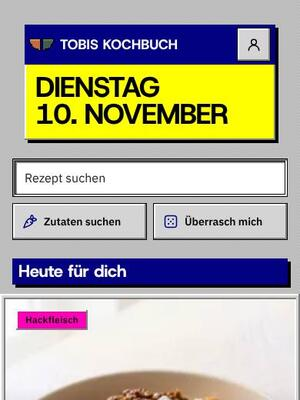
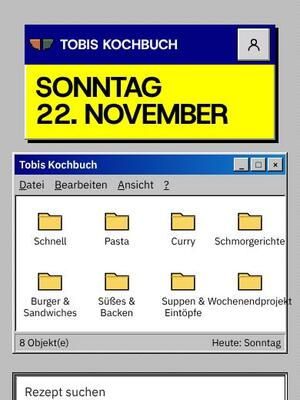
Retro, Terminal, Diner, Bauhaus: eigener Aufbau für Start, Rezeptliste und Rezeptseite
Claude-Session: https://claude.ai/code/session_013PTjiN2vxWXEUNgaQEpBeg

diff --git a/assets/skins/bauhaus.css b/assets/skins/bauhaus.css
@@ -42,3 +42,41 @@ html.skin-bauhaus:not(._a):not(._b):not(._c):not(._d) .wbLegend span::before{con
 html.skin-bauhaus:not(._a):not(._b):not(._c):not(._d) .wbLegend [data-kind="fleisch"]::before{background:var(--kFleisch)}
 html.skin-bauhaus:not(._a):not(._b):not(._c):not(._d) .wbLegend [data-kind="veg"]::before{background:var(--kVeg);border-radius:50%}
 html.skin-bauhaus:not(._a):not(._b):not(._c):not(._d) .wbLegend [data-kind="fisch"]::before{background:var(--kFisch);clip-path:polygon(50% 0,100% 100%,0 100%)}
+
+/* Dez. 2026, mehr eigener Charakter (bauhaus.js): Komposition mit riesigem Datum, Farbflächen-Raster mit Nummern und geometrischen Fotos */
+.bhComp{position:relative;height:min(92vw, 420px);margin:10px 0 18px;overflow:hidden;background:#F3EEE2}
+.bhComp i{position:absolute;display:block}
+.bhC{left:-8%;top:8%;width:62%;aspect-ratio:1;border-radius:50% !important;background:#C8202A}
+.bhS{right:6%;top:-6%;width:38%;aspect-ratio:1;background:#F2C230}
+.bhT{right:-4%;bottom:-2%;width:50%;aspect-ratio:1;background:#1E4FB8;clip-path:polygon(50% 0, 100% 100%, 0 100%)}
+.bhDay{position:absolute;left:4%;bottom:-4%;font:800 min(56vw, 16rem)/.8 "Skin Bauhaus", "Futura", sans-serif;color:#111;letter-spacing:-.06em}
+.bhMon{position:absolute;right:4%;top:46%;font:600 1.125rem/1.15 "Skin Bauhaus", "Futura", sans-serif;text-transform:uppercase;letter-spacing:.08em;color:#111;text-align:right}
+.bhLine{position:absolute;left:0;right:0;top:44%;height:6px;background:#111}
+html.skin-bauhaus:not(#_x#_y) body.layout-home .homeGreetingTitle{display:none}
+html.skin-bauhaus.bhList:not(#_x#_y) #recipeGrid{display:grid !important;grid-template-columns:repeat(2,minmax(0,1fr)) !important;gap:0 !important;counter-reset:bh;border:3px solid #111;background:#111}
+@media (min-width:700px){html.skin-bauhaus.bhList:not(#_x#_y) #recipeGrid{grid-template-columns:repeat(3,minmax(0,1fr)) !important}}
+@media (min-width:1100px){html.skin-bauhaus.bhList:not(#_x#_y) #recipeGrid{grid-template-columns:repeat(4,minmax(0,1fr)) !important}}
+html.skin-bauhaus.bhList:not(#_x#_y) #recipeGrid .linkCard{margin:0 !important;counter-increment:bh;border:1.5px solid #111}
+html.skin-bauhaus.bhList:not(#_x#_y) #recipeGrid .recipeCard{position:relative;height:100%;padding:14px 12px 12px !important;background:#F3EEE2 !important;box-shadow:none !important;border:0 !important}
+html.skin-bauhaus.bhList:not(#_x#_y) #recipeGrid .recipeCard[data-kind="fleisch"]{background:#C8202A !important}
+html.skin-bauhaus.bhList:not(#_x#_y) #recipeGrid .recipeCard[data-kind="veg"]{background:#F2C230 !important}
+html.skin-bauhaus.bhList:not(#_x#_y) #recipeGrid .recipeCard[data-kind="fisch"]{background:#1E4FB8 !important}
+html.skin-bauhaus.bhList:not(#_x#_y) #recipeGrid .recipeCard::before{content:counter(bh, decimal-leading-zero);position:absolute;right:10px;top:4px;font:800 2.4rem/1 "Skin Bauhaus", "Futura", sans-serif;color:#111;letter-spacing:-.04em;z-index:1}
+html.skin-bauhaus.bhList:not(#_x#_y) #recipeGrid .recipeCard:is([data-kind="fleisch"],[data-kind="fisch"])::before,html.skin-bauhaus.bhList:not(#_x#_y) #recipeGrid .recipeCard:is([data-kind="fleisch"],[data-kind="fisch"]) :is(.recipeTitle,.recipeMeta){color:#FFF !important}
+html.skin-bauhaus.bhList:not(#_x#_y) #recipeGrid .rcImg{width:78% !important;aspect-ratio:1 !important;margin:18px 0 12px !important;border-radius:0 !important;background:#111}
+html.skin-bauhaus.bhList:not(#_x#_y) #recipeGrid .rcImg img{width:100%;height:100%;object-fit:cover}
+html.skin-bauhaus.bhList:not(#_x#_y) #recipeGrid .recipeCard[data-kind="fleisch"] .rcImg{border-radius:50% !important;overflow:hidden}
+html.skin-bauhaus.bhList:not(#_x#_y) #recipeGrid .recipeCard[data-kind="fisch"] .rcImg{clip-path:polygon(50% 0, 100% 100%, 0 100%)}
+html.skin-bauhaus.bhList:not(#_x#_y) #recipeGrid .rcBody{padding:0 !important}
+html.skin-bauhaus.bhList:not(#_x#_y) #recipeGrid .recipeTitle{font:700 1rem/1.15 "Skin Bauhaus", "Futura", sans-serif !important;text-transform:uppercase;letter-spacing:.02em;color:#111 !important}
+html.skin-bauhaus.bhList:not(#_x#_y) #recipeGrid .recipeMeta{color:#111 !important;font-size:.8125rem !important}
+html.skin-bauhaus.bhList:not(#_x#_y) #recipeGrid .recipeMeta>:nth-child(n+2){display:none !important}
+html.skin-bauhaus:not(#_x#_y) .recipePageHero{position:relative;height:auto !important;max-height:none !important;aspect-ratio:auto !important;overflow:hidden !important;margin-top:56px !important;padding:24px 24px 0 56px;background:#F2C230 !important;display:flex !important;flex-direction:column}
+html.skin-bauhaus:not(#_x#_y) .recipePageHero::before,html.skin-bauhaus:not(#_x#_y) .recipePageHero::after{display:none !important}
+html.skin-bauhaus:not(#_x#_y) .recipePageHero img.recipeHeroImg{position:static !important;width:100% !important;height:auto !important;aspect-ratio:1;object-fit:cover;border-radius:50% !important;transform:none !important;box-shadow:12px 12px 0 #C8202A}
+html.skin-bauhaus:not(#_x#_y) .recipeHeroText{position:static !important;background:#111 !important;margin:24px -24px 0 -56px;padding:18px 20px !important}
+html.skin-bauhaus:not(#_x#_y) .recipeHeroText :is(.recipeName,.recipeSubtitle){color:#FFF !important;text-shadow:none !important}
+html.skin-bauhaus:not(#_x#_y) .recipeHeroText .recipeName{text-transform:uppercase;font-weight:800 !important;letter-spacing:-.02em}
+html.skin-bauhaus:not(#_x#_y) .recipeHeroText .recipeSubtitle{display:block !important;-webkit-line-clamp:unset !important}
+.bhVert{position:absolute;left:14px;top:24px;writing-mode:vertical-rl;transform:rotate(180deg);font:800 1rem/1 "Skin Bauhaus", "Futura", sans-serif;letter-spacing:.2em;text-transform:uppercase;color:#111}
+@media (min-width:900px){html.skin-bauhaus:not(#_x#_y) .recipePageHero img.recipeHeroImg{width:min(100%, 520px) !important;align-self:center}}

diff --git a/assets/skins/retro.css b/assets/skins/retro.css
@@ -1,0 +1,39 @@
+/* Skin „retro“ – Grundaussehen steht in styles.css (html.retro …). Diese Datei (Dez. 2026, mehr eigener Charakter) macht alles zu Fenstern:
+   Start mit Ordner-Fenster, Rezeptliste als Explorer in der Detailansicht, Rezeptseite als Bildbetrachter (retro.js). Neue Regeln ans Ende. */
+.rtWin,.rtExplorer,.rtHeroBar{--rtFace:#C3C3C3;--rtHi:#FFFFFF;--rtLo:#808080;--rtDk:#000000}
+.rtWin{margin:14px 0 4px;background:#C3C3C3;box-shadow:inset -1px -1px #000, inset 1px 1px #FFF, inset -2px -2px #808080, inset 2px 2px #DFDFDF;padding:3px}
+.rtBar{display:flex;align-items:center;justify-content:space-between;gap:8px;min-height:26px;padding:2px 3px 2px 6px;background:linear-gradient(90deg,#000080,#1084D0);color:#FFF;font:700 .875rem/1.2 "Retro Interface", sans-serif}
+.rtTitle{overflow:hidden;text-overflow:ellipsis;white-space:nowrap}
+.rtBtns{display:flex;gap:2px;flex:none}
+.rtBtns i{display:grid;place-items:center;width:20px;height:18px;background:#C3C3C3;color:#000;font:700 .75rem/1 "Retro Interface", sans-serif;font-style:normal;box-shadow:inset -1px -1px #000, inset 1px 1px #FFF, inset -2px -2px #808080}
+.rtMenu{padding:4px 6px;font:400 .875rem "Retro Interface", sans-serif;color:#000;word-spacing:10px}
+.rtIcons{display:grid;grid-template-columns:repeat(4,minmax(0,1fr));gap:6px;padding:12px 6px;background:#FFFFFF;box-shadow:inset 1px 1px #808080, inset -1px -1px #FFF, inset 2px 2px #000}
+@media (min-width:700px){.rtIcons{grid-template-columns:repeat(8,minmax(0,1fr))}}
+.rtIcon{display:flex;flex-direction:column;align-items:center;gap:4px;min-height:72px;padding:4px 2px;color:#000;text-decoration:none;text-align:center;font:400 .8125rem/1.15 "Retro Interface", sans-serif}
+.rtIcon svg{width:34px;height:34px}
+.rtIcon:focus-visible span,.rtIcon:active span{background:#000080;color:#FFF;outline:1px dotted #FFF}
+.rtStatus{display:flex;justify-content:space-between;gap:10px;margin-top:3px;padding:3px 6px;font:400 .8125rem "Retro Interface", sans-serif;color:#000;box-shadow:inset 1px 1px #808080, inset -1px -1px #FFF}
+/* Explorer: Rezeptliste in Detailansicht */
+.rtExplorer{margin:8px 0 0;background:#C3C3C3;padding:3px 3px 0;box-shadow:inset 1px 1px #FFF, inset -1px 0 #000, inset 2px 2px #DFDFDF}
+.rtCols{display:grid;grid-template-columns:1fr 6.5rem;margin:0 0 0;background:#C3C3C3}
+.rtCols span{padding:3px 8px;font:400 .8125rem "Retro Interface", sans-serif;color:#000;box-shadow:inset -1px -1px #808080, inset 1px 1px #FFF}
+html.retro.rtList:not(#_x#_y) #recipeGrid{display:block !important;background:#FFFFFF;margin:0 !important;padding:2px 0 !important;box-shadow:inset 1px 0 #000, inset -1px 0 #000;max-width:none}
+html.retro.rtList:not(#_x#_y) #recipeGrid .linkCard{display:block;margin:0 !important}
+html.retro.rtList:not(#_x#_y) #recipeGrid .recipeCard{display:grid !important;grid-template-columns:36px 1fr 6.5rem;align-items:center;gap:8px;min-height:44px;padding:4px 8px !important;background:transparent !important;box-shadow:none !important;border:0 !important}
+html.retro.rtList:not(#_x#_y) #recipeGrid .linkCard:nth-child(even) .recipeCard{background:#F1F1F1 !important}
+html.retro.rtList:not(#_x#_y) #recipeGrid .rcImg{width:36px !important;height:36px !important;aspect-ratio:1 !important;margin:0 !important;box-shadow:inset 0 0 0 1px #000}
+html.retro.rtList:not(#_x#_y) #recipeGrid .rcImg img{width:100%;height:100%;object-fit:cover}
+html.retro.rtList:not(#_x#_y) #recipeGrid .rcBody{display:contents !important}
+html.retro.rtList:not(#_x#_y) #recipeGrid .recipeTitle{font:400 .9375rem/1.2 "Retro Interface", sans-serif !important;text-transform:none !important;color:#000 !important;-webkit-line-clamp:2;margin:0}
+html.retro.rtList:not(#_x#_y) #recipeGrid .recipeMeta{font:400 .8125rem "Retro Interface", sans-serif !important;color:#000 !important;justify-content:flex-start;margin:0}
+html.retro.rtList:not(#_x#_y) #recipeGrid .recipeMeta>:nth-child(n+2),html.retro.rtList:not(#_x#_y) #recipeGrid .recipeMeta svg,html.retro.rtList:not(#_x#_y) #recipeGrid .freezerFlag,html.retro.rtList:not(#_x#_y) #recipeGrid .rcFavBadge{display:none !important}
+@media (hover:hover) and (pointer:fine){html.retro.rtList:not(#_x#_y) #recipeGrid .linkCard:hover .recipeTitle{background:#000080;color:#FFF !important}}
+.rtGridStatus{background:#C3C3C3;margin:0 0 18px;box-shadow:inset 1px 1px #808080, inset -1px -1px #FFF, 0 0 0 3px #C3C3C3}
+/* Rezeptseite: Bildbetrachter */
+html.retro:not(#_x#_y) .recipePageHero{padding:3px !important;background:#C3C3C3 !important;box-shadow:inset -1px -1px #000, inset 1px 1px #FFF, inset -2px -2px #808080, inset 2px 2px #DFDFDF !important;height:auto !important;max-height:none !important;aspect-ratio:auto !important;overflow:visible !important;margin-top:56px !important;display:flex !important;flex-direction:column}
+html.retro:not(#_x#_y) .recipePageHero::before,html.retro:not(#_x#_y) .recipePageHero::after{display:none !important}
+html.retro:not(#_x#_y) .recipePageHero img.recipeHeroImg{position:static !important;width:100% !important;height:auto !important;aspect-ratio:4/3;object-fit:cover;transform:none !important;box-shadow:inset 1px 1px #808080;border:2px solid #FFF;border-top-color:#808080;border-left-color:#808080}
+html.retro:not(#_x#_y) .recipeHeroText{position:static !important;background:#FFFFFF !important;padding:10px 10px 12px !important;margin-top:3px;box-shadow:inset 1px 1px #808080, inset -1px -1px #FFF}
+html.retro:not(#_x#_y) .recipeHeroText :is(.recipeName,.recipeSubtitle){color:#000 !important;text-shadow:none !important}
+html.retro:not(#_x#_y) .recipeHeroText .recipeSubtitle{display:block !important;-webkit-line-clamp:unset !important}
+.rtHeroStatus{background:#C3C3C3;margin:0 0 8px;box-shadow:inset 1px 1px #808080, inset -1px -1px #FFF, 0 0 0 3px #C3C3C3}

diff --git a/assets/skins/diner.css b/assets/skins/diner.css
@@ -40,3 +40,37 @@ html.skin-diner:not(._a):not(._b):not(._c):not(._d).listCards .grid .rcBody .rec
 html.skin-diner:not(._a):not(._b):not(._c):not(._d) .grid .rcBody::after{content:"";order:1;flex:1 1 16px;min-width:16px;margin:0 8px;height:0;border-bottom:3px dotted #B3122E;opacity:.55;transform:translateY(-.3em)}
 html.skin-diner:not(._a):not(._b):not(._c):not(._d) .grid .rcBody .recipeMeta{order:2;flex:none;margin:0;font-weight:700;color:#A3102A}
 html.skin-diner:not(._a):not(._b):not(._c):not(._d) .grid .rcBody .recipeMeta .metaItem + .metaItem{display:none}
+
+/* Dez. 2026, mehr eigener Charakter (diner.js): Leuchtschild + Tagesgericht-Tafel, Speisekarte, Bestellzettel */
+.dnSign{position:relative;margin:16px 0 6px;display:flex;flex-direction:column;align-items:center;gap:14px}
+.dnNeon{display:flex;flex-direction:column;align-items:center;padding:16px 26px 14px;border:3px solid #FF6B81;border-radius:22px;background:#1B0B10;box-shadow:0 0 0 4px #1B0B10, 0 0 18px rgba(255,45,85,.6), inset 0 0 18px rgba(255,45,85,.35)}
+.dnTobis{font:400 1.25rem/1 "Skin Diner", cursive;color:#9FF3FF;text-shadow:0 0 6px #4FE3FF, 0 0 16px #00C8FF}
+.dnDiner{font:400 clamp(3rem, 15vw, 4.6rem)/1 "Skin Diner", cursive;color:#FFFFFF;text-shadow:0 0 2px #fff, 0 0 10px #FF6B81, 0 0 24px #FF2D55}
+.dnOpen{margin-top:6px;padding:2px 12px;border:2px solid #FFD25E;border-radius:999px;font:700 .8125rem/1.4 -apple-system, sans-serif;letter-spacing:.14em;text-transform:uppercase;color:#FFE9A8;text-shadow:0 0 8px #FFB800;animation:dnFlick 4s infinite}
+.dnOpen.off{border-color:#555;color:#888;text-shadow:none;animation:none}
+@keyframes dnFlick{0%,92%,100%{opacity:1}93%{opacity:.3}95%{opacity:1}96%{opacity:.4}}
+.dnBoard{display:flex;flex-direction:column;align-items:center;gap:2px;width:min(100%,420px);padding:16px 18px;border:10px solid #7A4B2A;border-radius:6px;background:#203A2E;color:#F6F1E6;text-decoration:none;text-align:center;box-shadow:0 10px 24px rgba(0,0,0,.25)}
+.dnBoard small{font:400 1.125rem/1 "Skin Diner", cursive;color:#FFE9A8}
+.dnBoard b{font:400 1.75rem/1.15 "Skin Diner", cursive}
+.dnBoard i{font:400 .875rem/1.3 -apple-system, sans-serif;font-style:normal;color:#D7E6DD}
+.dnMenuHead{display:flex;flex-direction:column;align-items:center;margin:16px 0 0;padding:16px 12px 10px;background:#FFFDF6;border:3px solid #B3122E;border-bottom:0;border-radius:14px 14px 0 0}
+.dnMenuHead b{font:400 2.2rem/1 "Skin Diner", cursive;color:#B3122E}
+.dnMenuHead span{font:600 .75rem/1.4 -apple-system, sans-serif;letter-spacing:.1em;text-transform:uppercase;color:#4A4A4A}
+html.skin-diner.dnList:not(#_x#_y) #recipeGrid{display:block !important;background:#FFFDF6;border:3px solid #B3122E;border-top:0;border-radius:0 0 14px 14px;padding:4px 14px 14px !important;margin:0 0 20px !important}
+html.skin-diner.dnList:not(#_x#_y) #recipeGrid .linkCard{display:block;margin:0 !important}
+html.skin-diner.dnList:not(#_x#_y) #recipeGrid .recipeCard{display:grid !important;grid-template-columns:58px 1fr;align-items:center;gap:12px;padding:10px 0 !important;background:transparent !important;box-shadow:none !important;border:0 !important;border-bottom:1px dashed #B7DDCF !important}
+html.skin-diner.dnList:not(#_x#_y) #recipeGrid .rcImg{width:58px !important;height:58px !important;aspect-ratio:1 !important;border-radius:50% !important;margin:0 !important;box-shadow:0 0 0 3px #FFF, 0 0 0 5px #B3122E}
+html.skin-diner.dnList:not(#_x#_y) #recipeGrid .rcImg img{width:100%;height:100%;object-fit:cover;border-radius:50%}
+html.skin-diner.dnList:not(#_x#_y) #recipeGrid .rcBody{display:grid !important;grid-template-columns:1fr auto;align-items:baseline;gap:0 6px;padding:0 !important}
+html.skin-diner.dnList:not(#_x#_y) #recipeGrid .recipeTitle{display:flex !important;align-items:baseline;gap:6px;font:700 1rem/1.25 -apple-system, sans-serif !important;color:#1A1A1A !important;margin:0;-webkit-line-clamp:unset;overflow:visible}
+html.skin-diner.dnList:not(#_x#_y) #recipeGrid .recipeTitle::after{content:"";flex:1;min-width:16px;border-bottom:2px dotted #B3122E;transform:translateY(-4px)}
+html.skin-diner.dnList:not(#_x#_y) #recipeGrid .recipeMeta{margin:0;font:700 .9375rem -apple-system, sans-serif !important;color:#B3122E !important;white-space:nowrap}
+html.skin-diner.dnList:not(#_x#_y) #recipeGrid .recipeMeta>:nth-child(n+2),html.skin-diner.dnList:not(#_x#_y) #recipeGrid .recipeMeta svg,html.skin-diner.dnList:not(#_x#_y) #recipeGrid .freezerFlag{display:none !important}
+.dnSlip{position:relative;margin:4px auto 20px;max-width:420px;padding:14px 16px 18px;background:#FFFDF2;color:#1A1A1A;font:400 .9375rem/1.45 "Retro Mono", ui-monospace, monospace;box-shadow:0 8px 20px rgba(0,0,0,.12);transform:rotate(-1.2deg);
+  -webkit-mask:linear-gradient(#000,#000) 0 0/100% calc(100% - 8px) no-repeat, radial-gradient(circle at 6px 0, transparent 5px, #000 5.5px) 0 100%/12px 8px repeat-x;mask:linear-gradient(#000,#000) 0 0/100% calc(100% - 8px) no-repeat, radial-gradient(circle at 6px 0, transparent 5px, #000 5.5px) 0 100%/12px 8px repeat-x}
+.dnSlipHead{display:flex;justify-content:space-between;padding-bottom:6px;border-bottom:1px dashed #999;font-size:.8125rem;color:#4A4A4A}
+.dnSlipItem{margin:8px 0 4px;font-weight:600;color:#B3122E}
+.dnSlipRow{margin:0;color:#333}
+.dnSlipFoot{margin:10px 0 0;padding-top:6px;border-top:1px dashed #999;text-align:center;font:400 1.125rem "Skin Diner", cursive;color:#B3122E}
+html.skin-diner:not(#_x#_y) .recipePageHero{border-radius:26px !important;box-shadow:0 0 0 6px #FFF, 0 0 0 10px #B3122E !important;margin-top:64px !important}
+@media (prefers-reduced-motion: reduce){.dnOpen{animation:none}}

diff --git a/assets/skins/terminal.css b/assets/skins/terminal.css
@@ -55,3 +55,38 @@ html.skin-terminal:not(._a):not(._b):not(._c):not(._d) .sbBar{height:12px;border
 html.skin-terminal:not(._a):not(._b):not(._c):not(._d) .sbBar i{display:block;height:100%;
   clip-path:inset(0 calc((1 - var(--f)) * 100%) 0 0);background:repeating-linear-gradient(90deg,var(--leaf) 0 6px,transparent 6px 8px);filter:drop-shadow(0 0 4px rgba(92,255,138,.55))}
 html.skin-terminal:not(._a):not(._b):not(._c):not(._d) .sbRow b{font-weight:400;color:var(--text);min-width:4.5em;text-align:right}
+
+/* Dez. 2026, mehr eigener Charakter (terminal.js): Start = Terminal-Sitzung, Rezeptliste = ls -l, Rezeptseite = cat */
+.tmShell{margin:18px 0 6px;padding:14px 14px 16px;border:1px solid rgba(92,255,138,.4);background:#020502;font:400 .9375rem/1.55 "Retro Mono", ui-monospace, Menlo, monospace;color:#7DFFA0;box-shadow:0 0 24px rgba(51,255,102,.12) inset}
+.tmShell p{margin:0;overflow-wrap:anywhere}
+.tmShell b{color:#33FF66;font-weight:600}.tmShell i{color:#9CC7FF;font-style:normal}
+.tmShell kbd{font:inherit;color:#E6FFE9}
+.tmOut{margin:0 0 8px !important;padding-left:0;color:#4CC872}
+.tmOut a{display:inline-flex;align-items:center;min-height:32px;color:#33FF66;text-decoration:underline;text-underline-offset:3px;margin-right:6px}
+.tmOut span{color:#4CC872}
+.tmCaret{display:inline-block;width:.6em;height:1.1em;vertical-align:-.15em;background:#33FF66;animation:tmBlink 1s steps(1) infinite}
+@keyframes tmBlink{50%{opacity:0}}
+.tmLs,.tmCat{margin:14px 0 10px;font:400 .9375rem/1.55 "Retro Mono", ui-monospace, Menlo, monospace;color:#4CC872}
+.tmLs b,.tmCat b{color:#33FF66}.tmLs i,.tmCat i{color:#9CC7FF;font-style:normal}.tmLs kbd,.tmCat kbd{font:inherit;color:#E6FFE9}
+html.skin-terminal.tmList:not(#_x#_y) #recipeGrid{display:block !important;counter-reset:tm;border-top:1px dashed rgba(92,255,138,.4)}
+html.skin-terminal.tmList:not(#_x#_y) #recipeGrid .linkCard{display:block;margin:0 !important;counter-increment:tm}
+html.skin-terminal.tmList:not(#_x#_y) #recipeGrid .recipeCard{display:grid !important;grid-template-columns:5.6rem 1fr 56px;align-items:center;gap:10px;min-height:56px;padding:6px 0 !important;background:transparent !important;box-shadow:none !important;border:0 !important;border-bottom:1px dashed rgba(92,255,138,.25) !important}
+html.skin-terminal.tmList:not(#_x#_y) #recipeGrid .rcImg{grid-column:3;grid-row:1;width:56px !important;height:42px !important;aspect-ratio:auto !important;margin:0 !important;border:1px solid rgba(92,255,138,.5)}
+html.skin-terminal.tmList:not(#_x#_y) #recipeGrid .rcImg img{width:100%;height:100%;object-fit:cover}
+html.skin-terminal.tmList:not(#_x#_y) #recipeGrid .rcBody{display:contents !important}
+html.skin-terminal.tmList:not(#_x#_y) #recipeGrid .recipeMeta{grid-column:1;grid-row:1;font:400 .8125rem "Retro Mono", ui-monospace, Menlo, monospace !important;color:#4CC872 !important;margin:0;flex-direction:column;align-items:flex-start;gap:0}
+html.skin-terminal.tmList:not(#_x#_y) #recipeGrid .recipeMeta::before{content:"-rw-r--r--";color:#3FAE62;font-size:.75rem}
+html.skin-terminal.tmList:not(#_x#_y) #recipeGrid .recipeMeta>:nth-child(n+2),html.skin-terminal.tmList:not(#_x#_y) #recipeGrid .recipeMeta svg,html.skin-terminal.tmList:not(#_x#_y) #recipeGrid .freezerFlag,html.skin-terminal.tmList:not(#_x#_y) #recipeGrid .rcFavBadge{display:none !important}
+html.skin-terminal.tmList:not(#_x#_y) #recipeGrid .recipeTitle{grid-column:2;grid-row:1;font:400 1.0625rem/1.25 "Retro Mono", ui-monospace, Menlo, monospace !important;text-transform:lowercase !important;color:#E6FFE9 !important;margin:0}
+html.skin-terminal.tmList:not(#_x#_y) #recipeGrid .recipeTitle::after{content:".rez";color:#4CC872}
+@media (hover:hover) and (pointer:fine){html.skin-terminal.tmList:not(#_x#_y) #recipeGrid .linkCard:hover .recipeCard{background:rgba(51,255,102,.12) !important}}
+html.skin-terminal:not(#_x#_y) .recipePageHero{margin-top:8px !important;border:1px solid rgba(92,255,138,.5);padding:6px;height:auto !important;max-height:none !important;aspect-ratio:auto !important;display:flex !important;flex-direction:column;overflow:visible !important;background:transparent !important}
+html.skin-terminal:not(#_x#_y) .recipePageHero::before,html.skin-terminal:not(#_x#_y) .recipePageHero::after{display:none !important}
+html.skin-terminal:not(#_x#_y) .recipePageHero img.recipeHeroImg{position:static !important;width:100% !important;height:auto !important;aspect-ratio:4/3;object-fit:cover;transform:none !important}
+html.skin-terminal:not(#_x#_y) .recipeHeroText{position:static !important;background:none !important;padding:12px 2px 4px !important}
+html.skin-terminal:not(#_x#_y) .recipeHeroText .recipeName::before{content:"# ";color:#4CC872}
+html.skin-terminal:not(#_x#_y) .recipeHeroText :is(.recipeName,.recipeSubtitle){text-shadow:none !important}
+html.skin-terminal:not(#_x#_y) .recipeHeroText .recipeSubtitle{display:block !important;-webkit-line-clamp:unset !important;color:#4CC872 !important}
+html.skin-terminal:not(#_x#_y) .recipeHeroText .recipeSubtitle::before{content:"> "}
+.tmCat{margin-top:58px}
+@media (prefers-reduced-motion: reduce){.tmCaret{animation:none}}

diff --git a/assets/skins/terminal.js b/assets/skins/terminal.js
@@ -1,0 +1,56 @@
+// Skin „Terminal“ (Dez. 2026, mehr eigener Charakter): die Startseite ist eine Sitzung im Terminal (Befehle tippen sich, Antworten
+// sind antippbar), die Rezeptliste eine `ls -l`-Ausgabe, die Rezeptseite beginnt mit `cat <rezept>.rez`.
+(()=>{
+  "use strict";
+  const esc = (t)=> String(t || "").replace(/[&<>"]/g, (c)=> ({ "&": "&amp;", "<": "&lt;", ">": "&gt;", '"': "&quot;" })[c]);
+  const P = `<b>tobi@kochbuch</b>:<i>~</i>$ `;
+
+  function home(api){
+    const g = document.querySelector(".homeGreeting"); if(!g) return;
+    const a = document.getElementById("todayLink"), title = a?.querySelector(".homeFeaturedTitle")?.textContent.trim() || "";
+    const meta = [...(a?.querySelectorAll(".recipeMeta .metaItem") || [])].map((m)=> m.textContent.trim()).filter(Boolean).join("  ");
+    let cats = []; try{ cats = JSON.parse(document.getElementById("homeCats")?.textContent || "[]"); }catch{}
+    const d = new Date();
+    const lines = [
+      [P, "date", `${d.toLocaleDateString("de-DE", { weekday: "short", day: "2-digit", month: "short", year: "numeric" })} ${d.toTimeString().slice(0, 5)}`],
+      [P, "heute --empfehlung", title ? `<a href="${esc(a.getAttribute("href"))}">→ ${esc(title)}</a>  <span>${esc(meta)}</span>` : "keine Empfehlung"],
+      [P, "ls kategorien/", cats.slice(0, 9).map((c)=> `<a href="/rezeptindex/?kategorie=${encodeURIComponent(c)}">${esc(c.toLowerCase().replace(/ & /g, "+").replace(/ /g, "_"))}/</a>`).join("  ")],
+      [P, "", ""],
+    ];
+    const el = api.bit("tmShell", "terminal");
+    el.innerHTML = lines.map(([p, c, o], i)=> `<p class="tmCmd" style="--i:${i}">${p}<kbd data-c="${esc(c)}">${api.reduce() ? esc(c) : ""}</kbd>${i === lines.length - 1 ? '<span class="tmCaret"></span>' : ""}</p>${o ? `<p class="tmOut" style="--i:${i}">${o}</p>` : ""}`).join("");
+    g.after(el); api.add(()=> el.remove());
+    if(api.reduce()) { el.classList.add("done"); return; }
+    // Befehle nacheinander tippen
+    const ks = [...el.querySelectorAll("kbd")], outs = [...el.querySelectorAll(".tmOut")];
+    outs.forEach((o)=> o.hidden = true);
+    let k = 0, ch = 0, alive = true; api.add(()=>{ alive = false; });
+    const step = ()=>{
+      if(!alive || k >= ks.length) { el.classList.add("done"); return; }
+      const full = ks[k].dataset.c;
+      if(ch <= full.length){ ks[k].textContent = full.slice(0, ch++); setTimeout(step, 38 + Math.random() * 40); return; }
+      if(outs[k]) outs[k].hidden = false;
+      k++; ch = 0; setTimeout(step, 260);
+    };
+    setTimeout(step, 300);
+  }
+
+  function list(api){
+    const grid = document.getElementById("recipeGrid"); if(!grid) return;
+    const n = grid.querySelectorAll(".linkCard").length;
+    const head = api.bit("tmLs", "terminal", "p");
+    head.innerHTML = `${P}<kbd>ls -l rezepte/</kbd><br><span>insgesamt ${n}</span>`;
+    grid.before(head); api.add(()=> head.remove());
+    document.documentElement.classList.add("tmList"); api.add(()=> document.documentElement.classList.remove("tmList"));
+  }
+
+  function recipe(api){
+    const hero = document.querySelector(".recipePageHero"), D = window.RECIPE_DATA; if(!hero || !D) return;
+    const name = (D.id || "").split("/").filter(Boolean).pop() || "rezept";
+    const el = api.bit("tmCat", "terminal", "p");
+    el.innerHTML = `${P}<kbd>cat ${esc(name)}.rez</kbd>`;
+    hero.before(el); api.add(()=> el.remove());
+  }
+
+  window.KOCHBUCH_FX.terminal = { start(api){ if(api.home()) home(api); list(api); recipe(api); } };
+})();

diff --git a/assets/skins/retro.js b/assets/skins/retro.js
@@ -1,0 +1,45 @@
+// Skin „Retro“ (Dez. 2026, mehr eigener Charakter): alles ist ein Fenster wie auf einem alten Schreibtisch-Rechner.
+// Start: Fenster „Tobis Kochbuch“ mit Menüleiste und Ordner-Symbolen für die Kategorien; Rezeptliste: Explorer-Fenster in der
+// Detailansicht (Name, Zeit, Art); Rezeptseite: Bildbetrachter-Fenster mit Statusleiste.
+(()=>{
+  "use strict";
+  const esc = (t)=> String(t || "").replace(/[&<>"]/g, (c)=> ({ "&": "&amp;", "<": "&lt;", ">": "&gt;", '"': "&quot;" })[c]);
+  const BAR = (t)=> `<div class="rtBar"><span class="rtTitle">${t}</span><span class="rtBtns" aria-hidden="true"><i>_</i><i>□</i><i>×</i></span></div>`;
+  const FOLDER = `<svg viewBox="0 0 32 32" aria-hidden="true"><path d="M2 8h11l3 3h14v17H2z" fill="#F7D560" stroke="#000" stroke-width="1.5"/><path d="M2 12h28" stroke="#C9A22C" stroke-width="1.5"/></svg>`;
+  const CATS = ["Schnell", "Pasta", "Curry", "Schmorgerichte", "Burger & Sandwiches", "Süßes & Backen", "Suppen & Eintöpfe", "Wochenendprojekt"];
+
+  function home(api){
+    const g = document.querySelector(".homeGreeting"); if(!g) return;
+    let cats = []; try{ cats = JSON.parse(document.getElementById("homeCats")?.textContent || "[]"); }catch{}
+    const list = CATS.filter((c)=> !cats.length || cats.includes(c));
+    const el = api.bit("rtDesk", "retro");
+    el.innerHTML = `<div class="rtWin">${BAR("Tobis Kochbuch")}<div class="rtMenu" aria-hidden="true"><u>D</u>atei <u>B</u>earbeiten <u>A</u>nsicht <u>?</u></div>
+      <div class="rtIcons">${list.map((c)=> `<a class="rtIcon" href="/rezeptindex/?kategorie=${encodeURIComponent(c)}">${FOLDER}<span>${esc(c)}</span></a>`).join("")}</div>
+      <div class="rtStatus"><span>${list.length} Objekt(e)</span><span>Heute: ${esc(new Date().toLocaleDateString("de-DE", { weekday: "long" }))}</span></div></div>`;
+    g.after(el); api.add(()=> el.remove());
+  }
+
+  function list(api){
+    const grid = document.getElementById("recipeGrid"); if(!grid) return;
+    const n = grid.querySelectorAll(".linkCard").length;
+    const head = api.bit("rtExplorer", "retro");
+    head.innerHTML = `${BAR(`C:\\Rezepte\\*.rez`)}<div class="rtMenu" aria-hidden="true"><u>D</u>atei <u>B</u>earbeiten <u>A</u>nsicht <u>?</u></div><div class="rtCols" aria-hidden="true"><span>Name</span><span>Zeit</span></div>`;
+    grid.before(head); api.add(()=> head.remove());
+    const st = api.bit("rtStatus rtGridStatus", "retro");
+    st.innerHTML = `<span>${n} Objekt(e)</span><span>Tobis Kochbuch</span>`;
+    grid.after(st); api.add(()=> st.remove());
+    document.documentElement.classList.add("rtList"); api.add(()=> document.documentElement.classList.remove("rtList"));
+  }
+
+  function recipe(api){
+    const hero = document.querySelector(".recipePageHero"), D = window.RECIPE_DATA; if(!hero || !D) return;
+    const name = (D.id || "").split("/").filter(Boolean).pop() || "rezept";
+    const bar = api.bit("rtHeroBar", "retro"); bar.innerHTML = BAR(`${esc(name)}.jpg – Bildbetrachter`);
+    hero.prepend(bar); api.add(()=> bar.remove());
+    const st = api.bit("rtStatus rtHeroStatus", "retro");
+    st.innerHTML = `<span>${esc(D.category || "Rezept")}</span><span>${esc(D.baseServings)} Portion(en)</span>`;
+    hero.after(st); api.add(()=> st.remove());
+  }
+
+  window.KOCHBUCH_FX.retro = { start(api){ if(api.home()) home(api); list(api); recipe(api); } };
+})();

diff --git a/assets/skins/diner.js b/assets/skins/diner.js
@@ -1,0 +1,36 @@
+// Skin „Diner“ (Dez. 2026, mehr eigener Charakter): Leuchtschild „Tobis Diner – geöffnet“ mit Tafel „Tagesgericht“ auf der Startseite,
+// die Rezeptliste ist eine Speisekarte (Name …… Zeit, Untertitel klein, Foto rund), die Rezeptseite ein Bestellzettel.
+(()=>{
+  "use strict";
+  const esc = (t)=> String(t || "").replace(/[&<>"]/g, (c)=> ({ "&": "&amp;", "<": "&lt;", ">": "&gt;", '"': "&quot;" })[c]);
+
+  function home(api){
+    const g = document.querySelector(".homeGreeting"); if(!g) return;
+    const a = document.getElementById("todayLink"), title = a?.querySelector(".homeFeaturedTitle")?.textContent.trim();
+    const meta = [...(a?.querySelectorAll(".recipeMeta .metaItem") || [])].map((m)=> m.textContent.trim()).filter(Boolean)[0] || "";
+    const open = new Date().getHours() >= 11 && new Date().getHours() < 23;
+    const el = api.bit("dnSign", "diner");
+    el.innerHTML = `<div class="dnNeon"><span class="dnTobis">Tobis</span><span class="dnDiner">Diner</span><span class="dnOpen${open ? "" : " off"}">${open ? "Geöffnet" : "Geschlossen"}</span></div>
+      ${title ? `<a class="dnBoard" href="${esc(a.getAttribute("href"))}"><small>Tagesgericht</small><b>${esc(title)}</b><i>${esc(meta)}</i></a>` : ""}`;
+    g.after(el); api.add(()=> el.remove());
+  }
+
+  function list(api){
+    const grid = document.getElementById("recipeGrid"); if(!grid) return;
+    const head = api.bit("dnMenuHead", "diner");
+    head.innerHTML = `<b>Speisekarte</b><span>Alle Gerichte frisch gekocht · Zeit statt Preis</span>`;
+    grid.before(head); api.add(()=> head.remove());
+    document.documentElement.classList.add("dnList"); api.add(()=> document.documentElement.classList.remove("dnList"));
+  }
+
+  function recipe(api){
+    const body = document.querySelector(".recipePageBody"), D = window.RECIPE_DATA; if(!body || !D) return;
+    let n = 0; for(const c of D.id || "") n = (n * 31 + c.charCodeAt(0)) % 900;
+    const facts = [...document.querySelectorAll(".recipeFacts .kv")].map((k)=> k.textContent.trim()).filter(Boolean);
+    const el = api.bit("dnSlip", "diner");
+    el.innerHTML = `<div class="dnSlipHead"><span>Bestellung Nr. ${100 + n}</span><span>Tisch 1</span></div><p class="dnSlipItem">1× ${esc(D.title)}</p>${facts.map((f)=> `<p class="dnSlipRow">${esc(f)}</p>`).join("")}<p class="dnSlipFoot">Danke für Ihren Besuch!</p>`;
+    body.prepend(el); api.add(()=> el.remove());
+  }
+
+  window.KOCHBUCH_FX.diner = { start(api){ if(api.home()) home(api); list(api); recipe(api); } };
+})();

diff --git a/assets/skins/bauhaus.js b/assets/skins/bauhaus.js
@@ -1,0 +1,29 @@
+// Skin „Bauhaus“ (Dez. 2026, mehr eigener Charakter): Startseite als Komposition aus Kreis, Quadrat und Dreieck mit riesigem Datum;
+// Rezeptliste als Raster aus Farbflächen mit großer Nummer, Fotos in geometrischer Form (Kreis = Fleisch, Quadrat = Gemüse,
+// Dreieck = Fisch); Rezeptseite mit Foto im Kreis auf Farbfläche und senkrecht gesetzter Kategorie.
+(()=>{
+  "use strict";
+  const esc = (t)=> String(t || "").replace(/[&<>"]/g, (c)=> ({ "&": "&amp;", "<": "&lt;", ">": "&gt;", '"': "&quot;" })[c]);
+
+  function home(api){
+    const g = document.querySelector(".homeGreeting"); if(!g) return;
+    const d = new Date();
+    const el = api.bit("bhComp", "bauhaus");
+    el.setAttribute("aria-hidden", "true");
+    el.innerHTML = `<i class="bhC"></i><i class="bhS"></i><i class="bhT"></i><b class="bhDay">${d.getDate()}</b><span class="bhMon">${esc(d.toLocaleDateString("de-DE", { month: "long" }))}<br>${esc(d.toLocaleDateString("de-DE", { weekday: "long" }))}</span><span class="bhLine"></span>`;
+    g.after(el); api.add(()=> el.remove());
+  }
+
+  function list(api){
+    if(!document.getElementById("recipeGrid")) return;
+    document.documentElement.classList.add("bhList"); api.add(()=> document.documentElement.classList.remove("bhList"));
+  }
+
+  function recipe(api){
+    const hero = document.querySelector(".recipePageHero"), D = window.RECIPE_DATA; if(!hero || !D) return;
+    const el = api.bit("bhVert", "bauhaus"); el.setAttribute("aria-hidden", "true"); el.textContent = D.category || "Rezept";
+    hero.append(el); api.add(()=> el.remove());
+  }
+
+  window.KOCHBUCH_FX.bauhaus = { start(api){ if(api.home()) home(api); list(api); recipe(api); } };
+})();

diff --git a/_layouts/default.html b/_layouts/default.html
@@ -71,7 +71,7 @@
     // Jeder Skin hat seine eigene CSS-Datei (assets/skins/<skin>.css), geladen wird nur die des aktiven Skins – nach styles.css,
     // damit die Reihenfolge der Regeln stimmt. Beim ersten Aufbau schreibt das Skript direkt hinter dem styles.css-Link den Link
     // (blockiert das Zeichnen, kein Aufblitzen); beim Wechsel wird die neue Datei eingehängt und die alte danach entfernt.
-    window.KOCHBUCH_SKIN_HREF = function(s){ return s === 'standard' || s === 'retro' ? '' : "{{ '/assets/skins/' | relative_url }}" + s + ".css?v={{ site.time | date: '%s' }}"; };
+    window.KOCHBUCH_SKIN_HREF = function(s){ return s === 'standard' ? '' : "{{ '/assets/skins/' | relative_url }}" + s + ".css?v={{ site.time | date: '%s' }}"; };
     window.KOCHBUCH_SKIN_CSS = function(s){
       var main = document.getElementById('mainCss'); if (!main) return;      // Kopf wird noch gelesen → übernimmt das Skript hinter dem Link
       var want = window.KOCHBUCH_SKIN_HREF(s), old = document.querySelectorAll('link[data-skin-css]');

diff --git a/assets/skins.js b/assets/skins.js
@@ -1090,7 +1090,9 @@
   // Die Datei meldet sich mit KOCHBUCH_FX.<skin> = { start(api), refresh?(api), stop?() }. Was sie über api.on()/api.add()/api.canvas()/
   // api.loop() anlegt, räumt skins.js beim Wechsel auf. api.loop() zeichnet nur, solange das Element sichtbar und die Seite offen ist;
   // bei „Bewegung reduzieren“ genau einmal.
-  const FX_JS = { wortwelt: 1, blauraum: 1, glasklar: 1, tiefsee: 1, formlabor: 1, galerie: 1 };
+  // Dez. 2026: auch die älteren Skins haben ein eigenes Aufbau-Skript (eigener Charakter für Start, Rezeptliste, Rezeptseite)
+  const FX_JS = { wortwelt: 1, blauraum: 1, glasklar: 1, tiefsee: 1, formlabor: 1, galerie: 1,
+    retro: 1, terminal: 1, diner: 1, bauhaus: 1, nordwall: 1, zauberschule: 1, jahr3000: 1, zweistaedte: 1, insel: 1, akte: 1, brigade: 1, boxengasse: 1, bildband: 1 };
   window.KOCHBUCH_FX = window.KOCHBUCH_FX || {};
   let fxOn = "";
   const fxClean = [], fxLoaded = {};

diff --git a/sw.js b/sw.js
@@ -1,7 +1,7 @@
 /* Tobis Kochbuch — Service Worker
    Offline: Seiten „netzwerk-zuerst“, aber nach 3 s Warten (schlechter Empfang im Supermarkt) aus dem Cache.
    CSS/JS/Bilder „Cache zuerst“, im Hintergrund aktualisieren. /api/ nie cachen. */
-const VERSION = 'kochbuch-v128';
+const VERSION = 'kochbuch-v129';
 const ASSET_CACHE = `${VERSION}-assets`;
 const IMAGE_CACHE = `${VERSION}-images`;
 const PAGE_CACHE = `${VERSION}-pages`;

diff --git a/CLAUDE.md b/CLAUDE.md
@@ -175,6 +175,14 @@ Nur `/api/*` läuft durch den Worker (`run_worker_first`), alles andere sind sta
     Satz und Anfangsbuchstabe, Papierriss (`galerie-torn.svg`). Andere Feld-Seiten: Kopf `.gaHead` mit eigenem Stillleben (`PAGE_ART`: Rezepte Claesz,
     Kategorien Cotán, Plan van Dyck, Liste Chardin, sonst Peeters) und riesigem weißem Titel. Am Rechner ab 1180 px links festes Inhaltsverzeichnis
     `.gaSide`. Rezeptseite: Foto über die ganze Breite, weißer Titel, Papierriss, Untertitel als Satz mit Anfangsbuchstabe (`.gaStatement`).
+  - **Mehr Charakter für die älteren Skins (Dez. 2026, Wunsch des Besitzers: „die alten behalten ihre Themes, aber mehr eigenen Charakter“; alle
+    außer Standard):** jeder hat jetzt ein eigenes Aufbau-Skript `assets/skins/<skin>.js` (in `FX_JS`) mit eigenem Start-Element, Rezeptliste und
+    Rezeptseite. Retro hat dafür eine eigene `retro.css` (Grundlook bleibt in `styles.css`). **Retro:** alles Fenster (Start: Ordner-Fenster mit
+    Kategorien, Liste: Explorer-Detailansicht `html.rtList`, Rezept: Bildbetrachter mit Statusleiste). **Terminal:** Start = Sitzung, Befehle tippen
+    sich (`.tmShell`), Liste = `ls -l` (`html.tmList`), Rezept beginnt mit `cat …rez`. **Diner:** Leuchtschild „Tobis Diner“ mit „Geöffnet“ (11–23 Uhr)
+    + Kreidetafel „Tagesgericht“, Liste = Speisekarte mit Punktlinie zur Zeit (`html.dnList`), Rezept mit Bestellzettel `.dnSlip`. **Bauhaus:**
+    Start = Kreis/Quadrat/Dreieck mit riesigem Datum (`.bhComp`), Liste = Farbflächen-Raster mit Nummern, Foto als Kreis (Fleisch), Quadrat (Gemüse),
+    Dreieck (Fisch) (`html.bhList`), Rezept: Foto im Kreis auf Gelb, Kategorie senkrecht.
   - **Brigade** ist hell (Edelstahl) mit Schürzenblau `#2E62A8`; ein dunkler Brigade-Look wurde abgelehnt.
   - Die 3D-Köpfe (Three.js) sind im Dez. 2026 entfernt worden.
 - **Leise Bewegung im Standard-Look (Nov. 2026, alle sechs vom Besitzer gewählt; Abschnitt 24 in `styles.css`, nur `html:not(.skin):not(.retro)`):**
